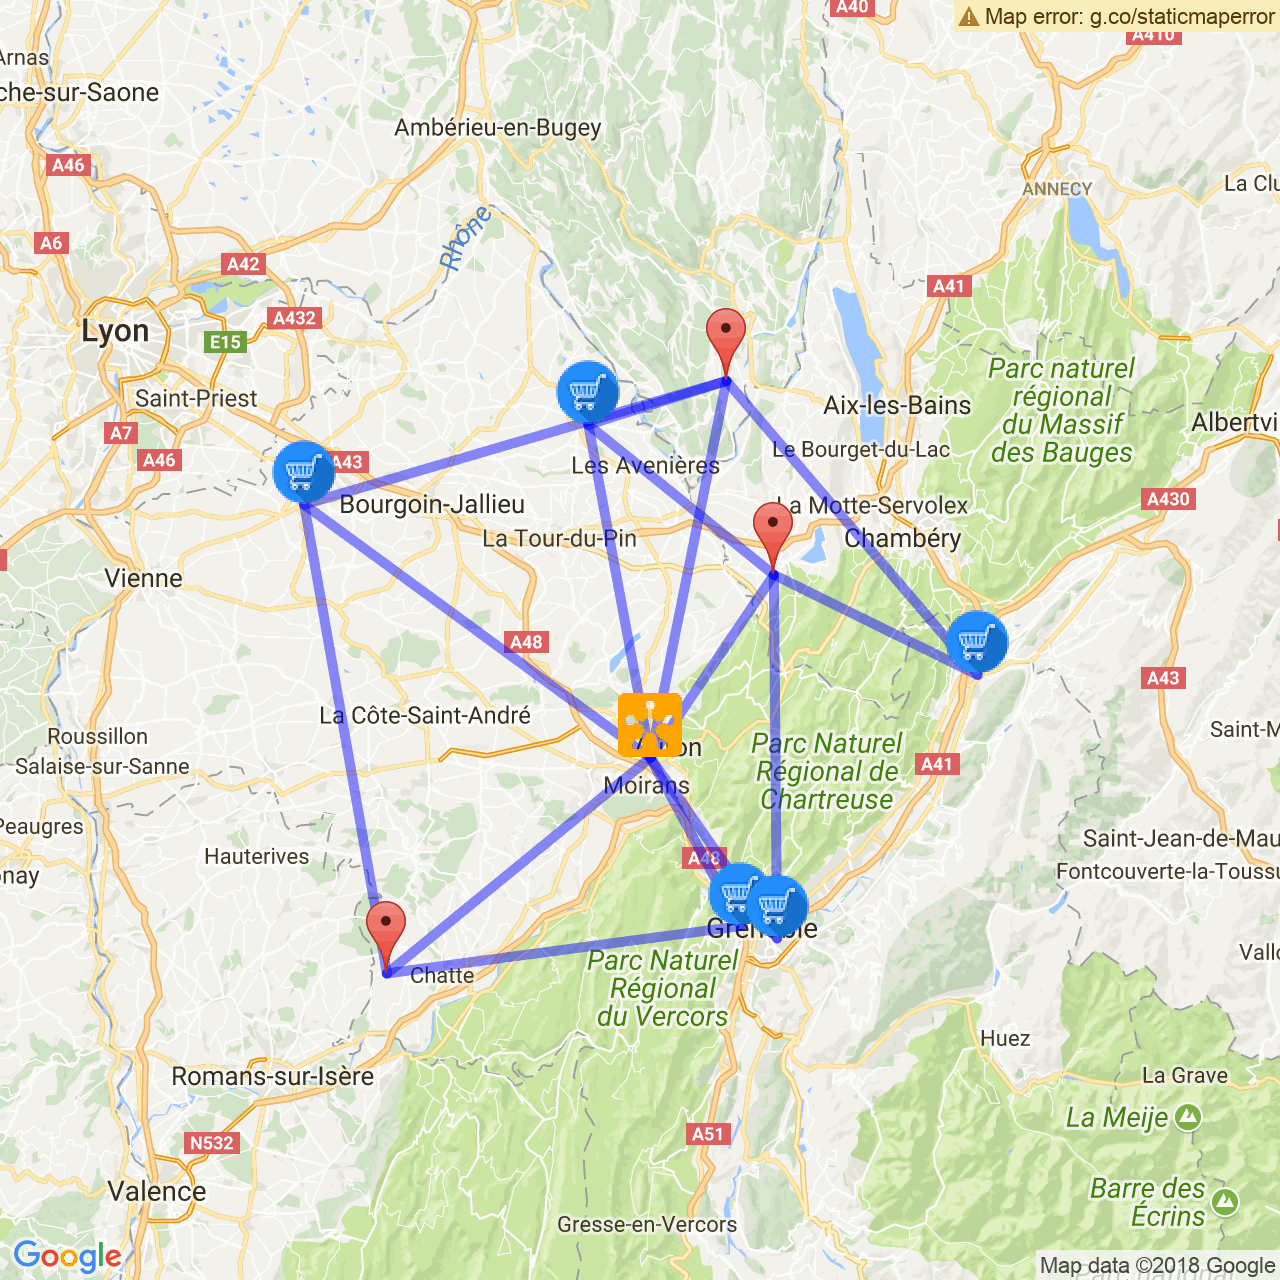
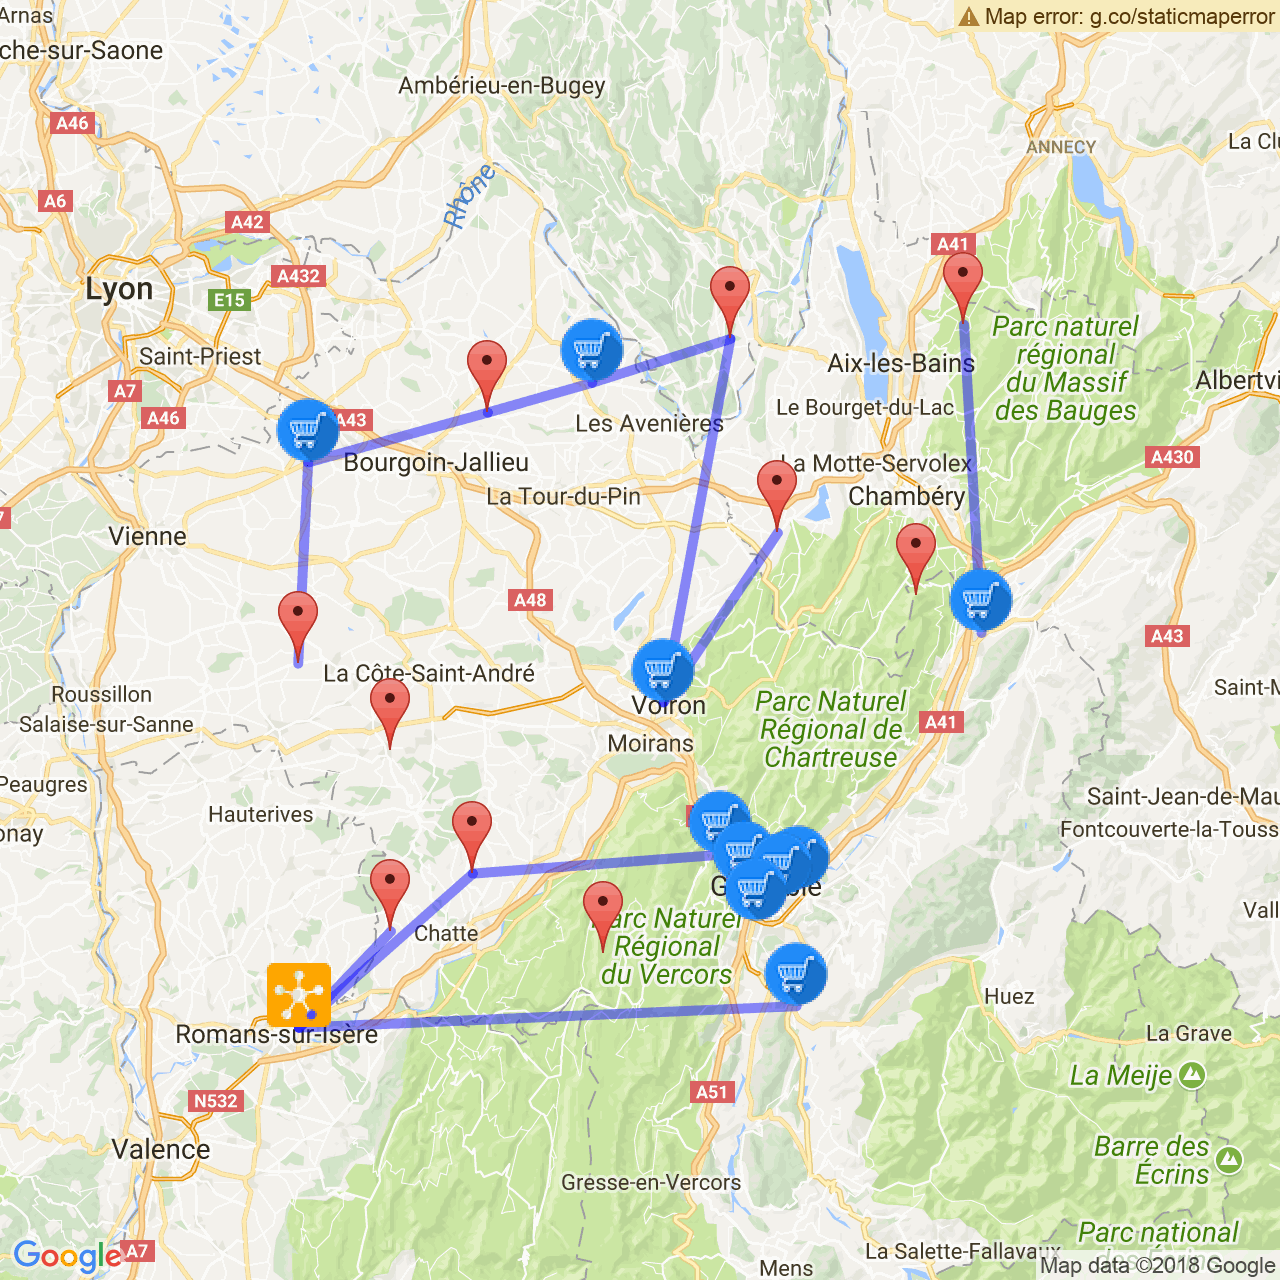
Changed Excel parsing to multi-period format

diff --git a/src/Tools/ExcelTools.java b/src/Tools/ExcelTools.java
@@ -11,6 +11,8 @@ import org.apache.poi.xssf.usermodel.XSSFWorkbook;
 import java.io.File;
 import java.io.FileInputStream;
 import java.io.FileNotFoundException;
+import java.time.Period;
+import java.util.ArrayList;
 import java.util.HashMap;
 import java.util.HashSet;
 
@@ -81,10 +83,10 @@ public class ExcelTools {
             if(locations != null) {
                 try {
                     // Set fictionnal producer
-                    producers[0] = new Producer(0, "Fiction", 45.1934574, 5.7682659, new HashMap<String, Integer>());
+                    producers[0] = new Producer(0, "Fiction", 45.14429, 5.20811);
                     for (int i = 0; i < locations.length; i++) {
                         Location currentLoc = locations[i];
-                        producers[i + 1] = new Producer(currentLoc.getNoPlace(), currentLoc.getName(), currentLoc.getLongitude(), currentLoc.getLatitude(), new HashMap<String, Integer>());
+                        producers[i + 1] = new Producer(currentLoc.getNoPlace(), currentLoc.getName(), currentLoc.getLongitude(), currentLoc.getLatitude());
                     }
 
                     FileInputStream fs = new FileInputStream(file);
@@ -95,7 +97,7 @@ public class ExcelTools {
 
                     /* Get producer supplies */
                     int rNum = 1;
-                    int supply;
+                    int supplyQuantity;
                     int col;
                     row = sheet.getRow(rNum);
                     HashSet<String> products = new HashSet<>(); // Set of products
@@ -107,17 +109,14 @@ public class ExcelTools {
                         }
 
                         col = 2;
-                        supply = 0;
                         cell = row.getCell(col);
-                        while (cell != null) {
-                            supply += Integer.parseInt(cell.getRawValue());
+                        while (sheet.getRow(0).getCell(col) != null && sheet.getRow(0).getCell(col).getStringCellValue().startsWith("Sem")) {
+                            supplyQuantity = Integer.parseInt(cell.getRawValue());
+                            Producer currentProducer = producers[Integer.parseInt(row.getCell(0).getRawValue())];
+                            currentProducer.setSupply(col-2, product, supplyQuantity);
                             col++;
                             cell = row.getCell(col);
                         }
-
-                        Producer currentProducer = producers[Integer.parseInt(row.getCell(0).getRawValue())];
-
-                        currentProducer.setSupply(product, supply);
 
                         rNum++;
                         row = sheet.getRow(rNum);
@@ -129,8 +128,10 @@ public class ExcelTools {
                             if (producer.getSupply().size() != products.size()) {
                                 for (String product : products
                                         ) {
-                                    if (!producer.getSupply().containsKey(product)) {
-                                        producer.setSupply(product, 0);
+                                    for (int i = 0; i < producer.getSupply().size() ; i++){
+                                        if (!producer.getSupply().get(i).containsKey(product)) {
+                                            producer.setSupply(i, product, 0);
+                                        }
                                     }
                                 }
                             }
@@ -171,13 +172,13 @@ public class ExcelTools {
 
                 if (locations != null){
                     // Set fictional customer
-                    customers[0] = new Customer(0, "Fiction", "Supermarché", 45.1934574, 5.7682659, new HashMap<String, Integer>());
+                    customers[0] = new Customer(0, "Fiction", "Supermarché", 45.1934574, 5.7682659);
                     for (int i = 0; i < locations.length; i++) {
                         Location currentLoc = locations[i];
                         row = sheet.getRow(currentLoc.getNoPlace());
                         cell = row.getCell(colCategorie);
 
-                        customers[i + 1] = new Customer(currentLoc.getNoPlace(), currentLoc.getName(), cell.getStringCellValue(), currentLoc.getLongitude(), currentLoc.getLatitude(), new HashMap<String, Integer>());
+                        customers[i + 1] = new Customer(currentLoc.getNoPlace(), currentLoc.getName(), cell.getStringCellValue(), currentLoc.getLongitude(), currentLoc.getLatitude());
                     }
                 }
 
@@ -185,25 +186,25 @@ public class ExcelTools {
 
                 /* Get Customer demands */
                 int rNum = 1;
-                int demand;
+                int demandQuantity;
                 row = sheet.getRow(rNum);
                 HashSet<String > products = new HashSet<>(); // Set of products
+
                 while (rNum != sheet.getPhysicalNumberOfRows()){
                     String product = row.getCell(1).getStringCellValue();
                     if(!products.contains(product)){
                         products.add(product);
                     }
+
                     col = 2;
-                    demand = 0;
                     cell = row.getCell(col);
-                    while (cell != null){
-                        demand += Integer.parseInt(cell.getRawValue());
+                    while (sheet.getRow(0).getCell(col) != null && sheet.getRow(0).getCell(col).getStringCellValue().startsWith("Sem")){
+                        demandQuantity = Integer.parseInt(cell.getRawValue());
+                        Customer currentCustomer = customers[Integer.parseInt(row.getCell(0).getRawValue())];
+                        currentCustomer.setDemand(col-2, product, demandQuantity);
                         col++;
                         cell = row.getCell(col);
                     }
-                    Customer currentCustomer = customers[Integer.parseInt(row.getCell(0).getRawValue())];
-
-                    currentCustomer.setDemand(product, demand);
 
                     rNum++;
                     row = sheet.getRow(rNum);
@@ -215,8 +216,10 @@ public class ExcelTools {
                         if (customer.getDemand().size() != products.size()) {
                             for (String product : products
                                     ) {
-                                if (!customer.getDemand().containsKey(product)) {
-                                    customer.setDemand(product, 0);
+                                for (int i = 0; i < customer.getDemand().size() ; i++){
+                                    if (!customer.getDemand().get(i).containsKey(product)) {
+                                        customer.setDemand(i, product, 0);
+                                    }
                                 }
                             }
                         }

diff --git a/src/Main.java b/src/Main.java
@@ -1,6 +1,7 @@
 
 //import Tools.ExcelTools;
 
+import Tools.ExcelTools;
 import com.jom.DoubleMatrixND;
 import com.jom.OptimizationProblem;
 import models.*;
@@ -39,15 +40,15 @@ public class Main {
 
         /* Get Excel file */
 //        File excelFile = new File("res/Projet_DistAgri_Inst_Petite.xlsx"); // Launching with IDE
-//        File excelFile = new File("res/Projet_DistAgri_Inst_Moyenne.xlsx"); // Launching with IDE
+        File excelFile = new File("res/Projet_DistAgri_Inst_Moyenne.xlsx"); // Launching with IDE
 //        File excelFile = new File("res/Projet_DistAgri_Inst_Grande.xlsx"); // Launching with IDE
         //File excelFile = new File(args[0]);
 
         System.out.println("Adding locations...");
         /* Initialise variables */
-//        producers = ExcelTools.readProducers(excelFile);
-//        hubs = ExcelTools.readHubs(excelFile);
-//        customers = ExcelTools.readCustomers(excelFile);
+        producers = ExcelTools.readProducers(excelFile);
+        hubs = ExcelTools.readHubs(excelFile);
+        customers = ExcelTools.readCustomers(excelFile);
 
         // frame Vars
         Random ran = new Random();
@@ -57,7 +58,7 @@ public class Main {
         int nbPeriodes = 52;
 
 //         Sets
-        producers = new Producer[]{new Producer(0, "Fiction", 45.14429, 5.20811),
+/*        producers = new Producer[]{new Producer(0, "Fiction", 45.14429, 5.20811),
                 new Producer(1, "Ferme1", 45.14429, 5.20811),
                 new Producer(2, "Ferme2", 45.71531, 5.67431),
                 new Producer(3, "Ferme3", 45.52911, 5.73944)};
@@ -74,14 +75,14 @@ public class Main {
         }
 
         hubs = new Hub[]{new Hub(1, "Voiron", 5000, 45.35276, 5.56985),
-                new Hub(2, "MIN de Grenoble", 10000, 45.17232, 5.71741)};
+                new Hub(2, "MIN de Grenoble", 10000, 45.17232, 5.71741)};*/
 
         double[][] openCost = new double[hubs.length][1];
         for (int i = 0; i < hubs.length; i++) {
             openCost[i][0] = (double) hubs[i].getOpCost();
         }
 
-        customers = new Customer[]{new Customer(0, "Fiction", "Supermarché", 45.17823, 5.74396),
+/*        customers = new Customer[]{new Customer(0, "Fiction", "Supermarché", 45.17823, 5.74396),
                 new Customer(1, "Client 1", "Supermarché", 45.17823, 5.74396),
                 new Customer(2, "Client 2", "Supermarché", 45.4327231, 6.0192055),
                 new Customer(3, "Client 3", "Supermarché", 45.1901677, 5.6940435),
@@ -97,7 +98,7 @@ public class Main {
                 customer.setDemand(i, "Produits laitiers chèvre", ran.nextInt(qProduits));
                 customer.setDemand(i, "Fruits", ran.nextInt(qProduits));
             }
-        }
+        }*/
 
         System.out.println("Calculating initial O/D...");
         // Offer / Demand
